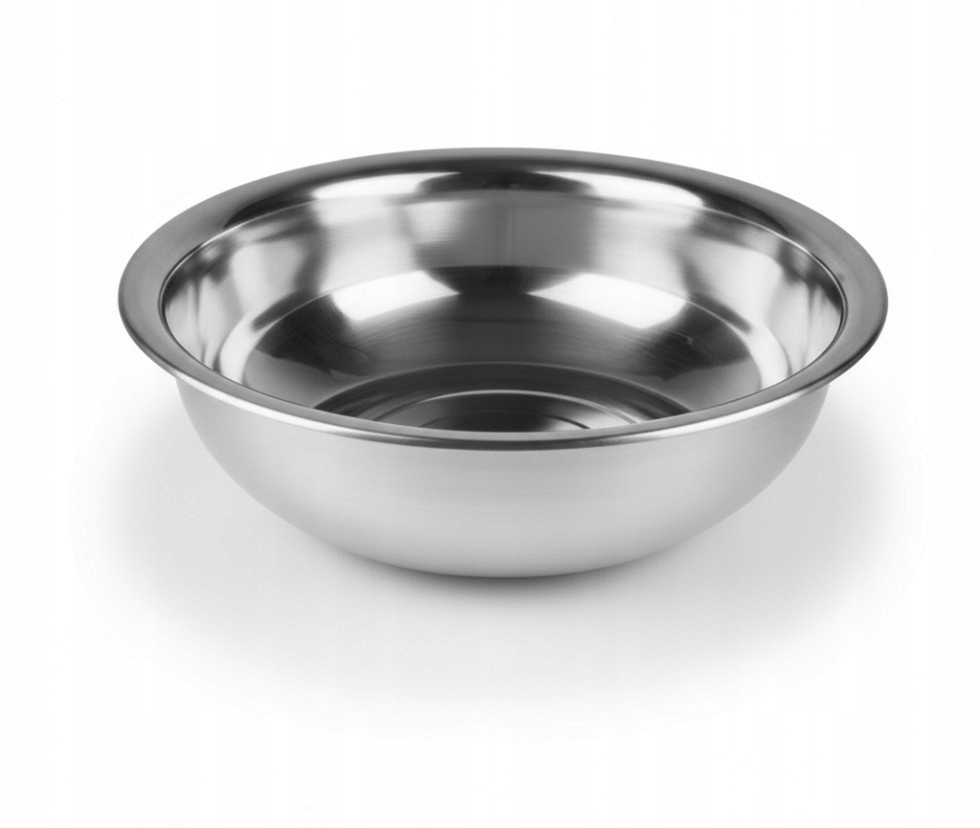
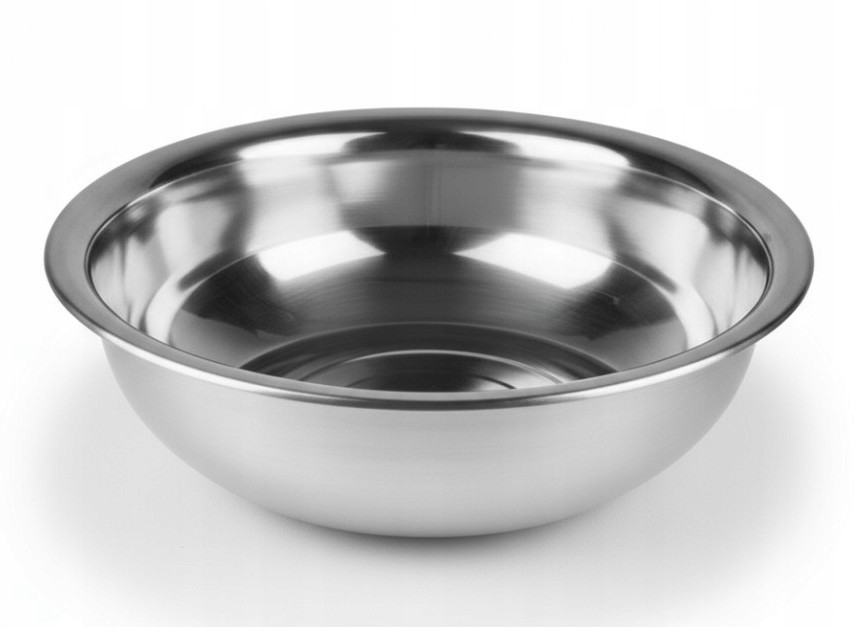
New posts - pizza, pomidory i prosecco

diff --git a/content/2026/46-pomidory-2/pomidory-2026.md b/content/2026/46-pomidory-2/pomidory-2026.md
@@ -1,0 +1,61 @@
+Title: Pomidory San Marzano - s02e01
+Date: 2026-08-15 19:00:00
+Category: wino
+Tags: działka
+Summary: Doświadczenia • Usprawnienia • Przebieg sezonu
+PreviewImage: notebook-thumbnail.png
+Status: draft
+
+„To jest dramat” chciałoby się powiedzieć na temat obecnego sezonu warzywnego. Ostatnie lato mnie nie oszczędzało, a miejsce miały wszystkie możliwe plagi.
+
+W tym roku zdecydowałem się na sianie pomidorków z moich własnych nasion. Ja ani sąsiedzi nie uprawiamy żadnej innej odmiany pomidorów, więc nie było ryzyka krzyżowania, ale nie byłem pewien czy nasiona dadzą radę. Na wszelki wypadek do każdej z wielodoniczek wrzuciłem po dwa nasionka. Skuteczność przekroczyła moje oczekiwania i wyniosła sto procent. Nie chcąc uszkodzić korzeni, zdecydowałem o wycięciu słabszej z każdej pary siewek. W ten sposób w połowie maja dotarłem do punktu, w którym miałem kilka rozsad więcej niż potrzebowałem. Mój cel na bieżący rok to było posadzenie ośmiu pomidorów na identycznej powierzchni, na której rok temu próbowałem posadzić ich dwanaście. Czasem mniej znaczy więcej i liczyłem, że luźniejsze rozmieszczenie pozwoli naturalnie ograniczyć presję zarazy. Swoją drogą nie posadziłem pomidorów w tym samym miejscu co rok temu, ale zbudowałem nową, niższą grządkę podwyższoną tuż obok. Na poprzedniej grządce posadziłem fasolkę szparagową. Do tego jako przedplon na obu grządkach sadziłem rzodkiewkę, szpinak i rukolę. W maju rosły one jeszcze całkiem nieźle, ale musiały ustąpić miejsca pomidorom, bo te są dla mnie absolutnym priorytetem.
+
+Kolejnym usprawnieniem względem zeszłego roku było rozłożenie linii nawadniającej od samego początku. Została ona podłączona do programowalnego zaworu z dwoma wejściami, aby zadbać o największe nawodnienie pomidorów. Przez praktycznie cały sezon zużywałem 15-20 litrów wody co 3 dni, za wyjątkiem największych upałów, gdy podlewałem je w takiej ilości co 2 dni. Całość grządki wyściółkowałem skoszoną trawą, dzięki czemu nie musiałem pielić jej ani razu.
+
+Wygląda zatem, że szło mi całkiem dobrze, więc skąd te negatywne słowa na początku?
+
+# Problemy
+
+Trzeba przejść do problemów. Moim głównym zmartwieniem była profilaktyka przeciwko zarazie ziemniaczanej. Robiłem co tylko mogłem. Po pierwsze zbudowałem z plastikowych rurek konstrukcję pozwalającą na zadaszenie pomidorów folią. Okazała się ona niezbyt stablna, więc piękna i zwiewna kratka z rurek musiała zostać ustabilizowana przez linki i zastrzały. Mając u góry taką konstrukcję postanowiłem zastosować rozwiązanie, które widziałem w przypadku szklarni czy foliaków, czyli prowadzenie pomidorów po sznurku. Rzecz, która na zamkniętej (lub półzamkniętej) przestrzeni może sprawdzać się dobrze, w moim przypadku okazała się niewypałem. Wiatr poruszał dość mocno pomidorami, więc z obawy o ich wyrwanie musiałem dać im nieco luzu. W dalszym okresie sezonu, gdy zawiązały się owoce, a krzewy stały się ciężkie, sznurek nie był w stanie utrzymać roślin w pionie i "rozlazły" się po bokach, przez co zajęły dużo więcej miejsca niż planowałem i doprowadziły do podobnego zagęszczenia jak rok temu.
+
+_Notabene_ rozwiązania te okazały się nieskuteczne, bo w połowie sierpnia w moje okolice przyszły potężne wichury. Zerwały w okolicy kilka dachów, a rusztowanie z pomiorkami wywróciły, nie łamiąc na szczęście łodyg roślinom, choć było blisko. Cała konstrukcja była przygotowana na podmuchy od zachodu lub wschodu, a uderzenie przyszło z północy.
+
+## Wiązanie pomidorów
+
+Eksperymentowałem też z różnymi sposobami mocowania pomidorów do sznurka. Pierwszą opcją były okrągłe klipsy, ale okazały się za małe na grube pędy San Marzano. Musiałem je zdjąć i zastąpić czym innym, czyli opaskami z tworzywa sztucznego. Te ostatnie sprawdziły się bardzo dobrze przy innych roślinach: winorośli, jeżynach, ale przy pomidorach było już nieco gorzej. Pozwalały na regulację i nie zaciskały się za bardzo, ale z biegiem czasu powodowały pewne otarcia skórki pomidora, co mogło zwiększać presję choroby. Na przyszły rok niemal na pewno zdecyduję się na opaski materiałowe wiązane do palików z tworzywa sztucznego.
+
+
+## Zadaszenie
+
+Tak jak mówiłem, grządkę zadaszyłem folią. Obawiając się zachodnich podmuchów wiatru, nie odważyłem się zabezpieczyć folią od boku, ale powiesiłem tam moskitierę. Uznałem, że nie będzie działać jak żagiel, a powinna zatrzymać przynajmniej część zacinającego deszczu. Czy się to sprawdziło? Wyglądało, że tak, ale ogólnie to ciężko powiedzieć. Po deszczu z innego kierunku liście pomidorów i tak były mokre, a zaraza tylko na to czekała.
+
+Innym problemem z folią był fakt, że była ustawiona prawie na płasko, a z czasem lekko obwisała, przez co zbierały się w niej kałuże wody deszczowej. Obciążona wodą folia obwisała jeszcze bardziej, przez co magazynowała jeszcze więcej wody i tak dalej... istne _perpetuum mobile_. W skrajnym przypadku, gdy w ciągu tygodnia padało bardzo dużo wody, przyjechałem i zastałem kiedyś rurki dachowe wygięte w dół pod kątem 45 stopni. Mocno je docisnęło. Do tego z czasem okazało się, że folia nie jest tak niezniszczalna jak myślałem i ujawniły się w niej małe dziurki. W efekcie deszcz, zamiast spaść i wyschnąć, zbierał się i kapał na ten sam punkt na liściu pomidora. Czy mogłoby być gorzej? Rozwiązałem ten problem usztywniając dach dodatkowym kijem, ale straty zostały już poniesione.
+
+Na początku lipca nadeszły potężne upały (35-37 stopni), zdecydowałem więc wtedy o dodatkowym zawieszeniu folii cieniującej od góry i południa, a także zwiększeniu częstotliwości automatycznego podlewania.
+
+## Nie warto było robić nic
+
+W połowie lipca nadeszło to, czego nie chciałem, ale czego się spodziewałem. Zaatakowała zaraza ziemniaczana. Cięzko powiedzieć dlaczego, ale prawdopodobnie mokre liście od wschodu + mały przewiew z powodu wycięcia łodyg + niewystarcające cięcia prześwietlające. Tak czy inaczej rozpoczęła się walka. Już dwa tygodnie wcześniej rozpocząłem opryski preparatem IF oraz po raz pierwszy opryskiem HT (oregano i tymianek), ale rozwój choroby pokazał, że profilaktyka nie zdała się na nic. Dlatego też zdecydowałem się na użycie ciężkiej artylerii, zwłaszcza że wciąż było dużo czasu do dojrzewania owoców. Pierwszy zrobiłem oprysk Revusem, a drugi Signum. Warto wspomnieć, że atak zarazy miał miejsce znacznie wcześniej niż rok temu i to pomimo wszystkich podejmowanych przeze mnie działań. W zeszłym roku pomidorom kapało na głowę przez cały sezon, a konkretnej chemii musiałem użyć dopiero pod koniec sierpnia. Dlatego też może wydawać się, że nie warto było robić nic.
+
+## Gąsienice
+
+Jakby tego było mało, na początku września w kilku pomidorach zauważyłem dziurki, a ich skórka zrobiła się miększa i lekko pociemniała. Po przecięciu takiego felernego pomidora zauważyłem w środku sporą zieloną gąsienicę. Zobaczymy co dalej.
+
+## Co w następnym sezonie?
+
+Na pewno nie odpuszczę i będę usprawniał dalej. Zmiany względem bieżącego roku:
+
+1. solidne rusztowanie
+Zbuduję stałą konstrukcję z drewna, która będzie przygotowana na wieszanie zadaszenia z folii, potencjalnie także zasłaniania folią ścian bocznych. Rusztowanie na dach musi mieć co najmniej kilkustopniowy spadek, żeby folia mogła pozostać naciągnięta i nie zbierała wody. Być może dodam do tego rynienkę, aby zbierać deszczówkę i odprowadzać ją do beczki z deszczówką używaną do linii kroplującej. Obrys dachu musi być co najmniej kilkanaście centrymetrów większy niż grządka, żeby deszcz mniej zacinał.
+
+2. paliki
+Tak jak wspominałem, wrócę do palików. Zadbam tylko, żeby były ze sobą jakoś powiązane, żeby zachować oczekiwany dystans między pomidorami. Sznurki kompletnie się nie sprawdziły i niemalże doprowadziły do wyrwania wszystkich pomidorów, więc tego nie powtórzę.
+
+3. 
+
+# Donica
+
+Grządka pomidorów na działce nie była jedynym sposobem uprawy. Poza nimi miałem także dwa pomidory posadzone w dziesięciolitrowych donicach. One z kolei udały się idealnie. Konieczne było co prawda podlewanie ich dwa razy dziennie w największe upały, ale odwdzięczyły się dużą ilością pięknych owoców. Z uwagi na ich niesamowicie szybki wzrost musiałem ogławiać je przy wysokości 180 cm już w połowie lipca. Jedyną ich bolączką była zgnilizna wierzchołkowa, na którą San Marzano jest bardzo podatne. Ani częste opryski saletrą wapniową, ani częste podlewanie okazały się niewystarczające. Na szczęście straciłem przy tym tylko trzy owoce. Planowanym usprawnieniem na przyszły rok jest użycie donic 20 L zamiast obecnych 10. Nic więcej nie zdołam już poprawić.
+
+Używałem dokładnie tych samych klipsów i opasek co przy pomidorach na działce, ale prowadzenie ich przy sztywnej podporze w bezpiecznym od wiatru miejscu sprawiło, że nie było żadnego problemu z otarciami.
+

diff --git a/content/2026/45-przechowywanie-prosecco/prosecco.md b/content/2026/45-przechowywanie-prosecco/prosecco.md
@@ -1,0 +1,85 @@
+Title: Przechowywanie Prosecco
+Date: 2026-07-30 19:00:00
+Category: wino
+Tags: wino
+Summary: Prosecco • Aperol Spritz • Jak zachować bąbelki?
+PreviewImage: notebook-thumbnail.png
+Status: draft
+
+Chciałem pójść po mleko, ale wyszło, jak wyszło. Postanowiłem zatem zastanowić się nad przechowywaniem po otwarciu tego pośledniego, choć radującego serce składnika letnich drinków.
+
+Moim ulubionym jest Aperol Spritz, a na drugim miejscu znajduje się Hugo (koniecznie z własnoręcznie zrobionym syropem z bzu).
+
+# Pomysły
+
+Jeśli drinki na bazie Prosecco pije więcej osób, to nie ma problemu, butelka schodzi od razu.
+Jednakże, jeśli planuje się zrobić pojedynczego drinka, to 0,75L okazuje się objętością trudną do ogarnięcia.
+
+Dlatego też rozważyłem różne możliwości przechowywania go z zachowaniem bąbelków.
+
+# Porównanie
+
+Porównałem trzy metody zamykania butelek. Wziąłem trzy identyczne zakręcane buteleczki 200 ml z wina Mionetto.
+
+Po pierwsze zadbałem o maksymalne schłodzenie Prosecco przed przelewaniem. Ilość dwutlenku węgla, jaki może rozpuścić się w objętości płynu, jest tym większa, im niższa temperatura.
+
+TODO wzór
+
+> Dygresja - ciśnien
+> 
+> Drugim istotnym parametrem jest ciśnienie, co prowadzi do wniosku, że znalezienie sposobu na przelewanie wina z butelki do butelki bez dostępu ciśnienia atmosferycznego byłoby kolejnym krokiem naprzód. A skoro można tanio kupić sprzęt do przetaczania gazu z dużej butli do małego kartusza, to możliwe, że rozwiązanie jest tuż za rogiem. Jest to jednak tylko dygresja, bo na razie uznałem, że szybkie przelanie wina po ściance będzie wystarczające.
+
+Operację przelewania zacząłem od umieszczenia jeszcze zamkniętej butelki na kilka godzin w lodówce, a tuż przed przelewanem umieściłem butelkę na 20 minut w zamrażarce.
+
+Testowane sposoby zamykania butelek:
+
+1. zakrętka
+2. kapsel
+3. zamykacz z uszczelką
+
+Prosecco przelałem do buteleczek (nalewając do pełna) i umieściłem w lodówce na cztery dni. Następnie otwarłem je jednocześnie i przelałem do szklanek. Założyłem, że różnice będą tak widoczne, że nie będzie potrzeby dokonywania bardziej drobiazgowego porównania. Miałem rację, bo okazało się, że tylko jeden z nich utrzymał większość bąbelków. Wygrał zamykacz do win musujących. Z pozostałych dwóch uciekło prawie wszystko.
+
+Wyglądałoby, że sprawa jest prosta, ale zwróciłem uwagę na jeden element. Kapsel na butelkce przystosowanej do zakrętki mógł nie dolegać idealnie z uwagi na posiadanie gwintu. Przecież w butelkach piwnych kapsle trzymają gaz przez miesiące, a nawet lata. Stwierdziłem zatem, że konieczna jest dogrywka między zamykaczem a kapslem.
+
+# Dogrywka
+
+Tym razem w grze były tylko dwie metody: kapsel i zamykacz. Test przeprowadzony został na butelkach 330 ml.
+
+Tym razem wino było przechowywane w lodówce przez ponad tydzień. Wynik okazał się inny niż poprzednio: kapsel zachował większość bąbelków, a zamykacz poradził sobie znacznie gorzej. Teraz nie mam pewności czy to kwestia dłuższego przechowywania, czy może innego wariantu szyjki, bo zamykacz przystosowany jest do zamykania butelek szampańskich 750 ml, w których kupuje się wino musujące. 
+
+# Dogrywka dogrywki
+
+TODO
+
+# Bonus - wspomniane drinki
+
+Skoro tak mi na nich zależy, to mogę wspomnieć jak je robię. Zwłaszcza, że korzystam z wariantów zarówno alkoholowych, jak i bezalkoholowych.
+
+## Aperol Spritz
+
+Wszystko robię standardowo, więc nie ma nawet o czym się rozpisywać. Kolejność podawania składników: lód (odczekanie kilku minut, żeby nie pękał), Aperol, prosecco z Biedronki, woda gazowana. Dekoracja z półplastra pomarańczy.
+
+## Aperol Spritz zero
+
+Tak samo, ale po samodzielnych testach podczas odwyku i śledzeniu kilku testów odkryłem najbardziej odpowiadające mi zamienniki.
+
+Zamiast Aperola używam Cin Cin Aperitivo Free.
+
+Zamiast zwykłego Prosecco używam wariantu 0%. Jest moim zdaniem na tyle dobry, że jeśli chce się robić obie wersje, to spokojnie można używać tego zero do zwykłego Aperol Spritza.
+
+Woda gazowana bez zmian.
+
+
+## Hugo
+
+Tutaj sytuacja z przepisem nie jest oczywista, bo istnieje wiele wariantów tego koktajlu i nie roszczę sobie prawa do znajomości najlepszego przepisu. Przepis, którego używam to:
+
+- Kieliszek z lodem
+- 60 ml Prosecco
+- 20 ml syropu z kwiatów bzu
+- 20 ml soku z limonki
+- kilka listków mięty
+- splash wody gazowanej
+
+W wersji bezalkoholowej używam Prosecco bezalkoholowego. Jako że smakuje w zasadzie tak samo, więc często robię go w ten sposób nawet gdy nie mam konkretnego powodu by unikać alkoholu.
+
